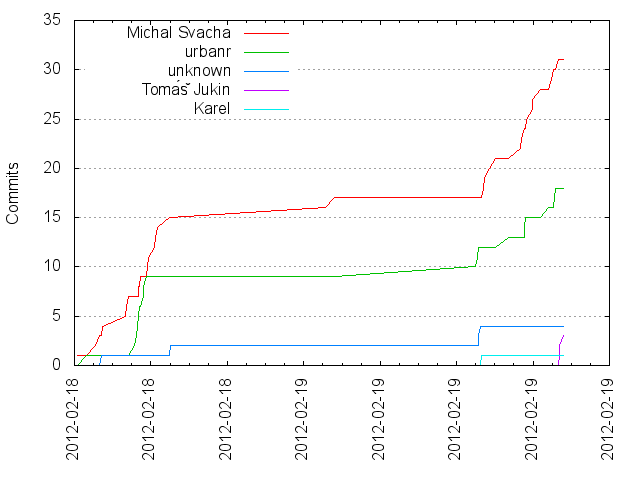
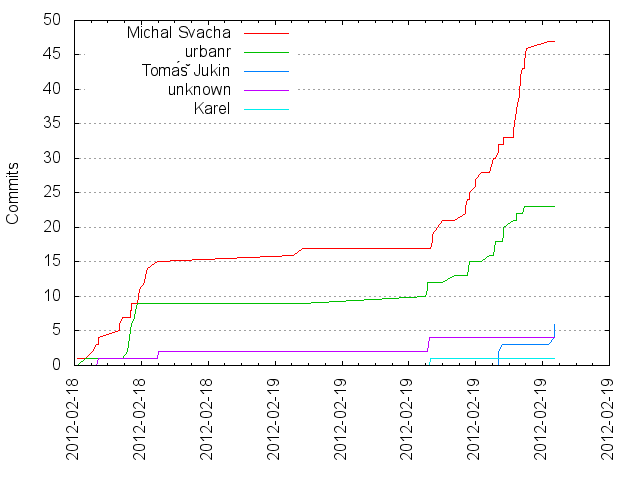
Generated git repository statistics

diff --git a/GADCPrague_stats/activity.html b/GADCPrague_stats/activity.html
@@ -4,7 +4,7 @@
 <head>
 	<title>GitStats - GeoCatching</title>
 	<link rel="stylesheet" href="gitstats.css" type="text/css" />
-	<meta name="generator" content="GitStats 562acb7" />
+	<meta name="generator" content="GitStats b0c5aa6" />
 	<script type="text/javascript" src="sortable.js"></script>
 </head>
 <body>
@@ -22,27 +22,27 @@
 
 <h2><a href="#weekly_activity" name="weekly_activity">Weekly activity</a></h2>
 
-<p>Last 32 weeks</p><table class="noborders"><tr><td style="text-align: center; vertical-align: bottom">0<div style="display: block; background-color: red; width: 20px; height: 1px"></div></td><td style="text-align: center; vertical-align: bottom">0<div style="display: block; background-color: red; width: 20px; height: 1px"></div></td><td style="text-align: center; vertical-align: bottom">0<div style="display: block; background-color: red; width: 20px; height: 1px"></div></td><td style="text-align: center; vertical-align: bottom">0<div style="display: block; background-color: red; width: 20px; height: 1px"></div></td><td style="text-align: center; vertical-align: bottom">0<div style="display: block; background-color: red; width: 20px; height: 1px"></div></td><td style="text-align: center; vertical-align: bottom">0<div style="display: block; background-color: red; width: 20px; height: 1px"></div></td><td style="text-align: center; vertical-align: bottom">0<div style="display: block; background-color: red; width: 20px; height: 1px"></div></td><td style="text-align: center; vertical-align: bottom">0<div style="display: block; background-color: red; width: 20px; height: 1px"></div></td><td style="text-align: center; vertical-align: bottom">0<div style="display: block; background-color: red; width: 20px; height: 1px"></div></td><td style="text-align: center; vertical-align: bottom">0<div style="display: block; background-color: red; width: 20px; height: 1px"></div></td><td style="text-align: center; vertical-align: bottom">0<div style="display: block; background-color: red; width: 20px; height: 1px"></div></td><td style="text-align: center; vertical-align: bottom">0<div style="display: block; background-color: red; width: 20px; height: 1px"></div></td><td style="text-align: center; vertical-align: bottom">0<div style="display: block; background-color: red; width: 20px; height: 1px"></div></td><td style="text-align: center; vertical-align: bottom">0<div style="display: block; background-color: red; width: 20px; height: 1px"></div></td><td style="text-align: center; vertical-align: bottom">0<div style="display: block; background-color: red; width: 20px; height: 1px"></div></td><td style="text-align: center; vertical-align: bottom">0<div style="display: block; background-color: red; width: 20px; height: 1px"></div></td><td style="text-align: center; vertical-align: bottom">0<div style="display: block; background-color: red; width: 20px; height: 1px"></div></td><td style="text-align: center; vertical-align: bottom">0<div style="display: block; background-color: red; width: 20px; height: 1px"></div></td><td style="text-align: center; vertical-align: bottom">0<div style="display: block; background-color: red; width: 20px; height: 1px"></div></td><td style="text-align: center; vertical-align: bottom">0<div style="display: block; background-color: red; width: 20px; height: 1px"></div></td><td style="text-align: center; vertical-align: bottom">0<div style="display: block; background-color: red; width: 20px; height: 1px"></div></td><td style="text-align: center; vertical-align: bottom">0<div style="display: block; background-color: red; width: 20px; height: 1px"></div></td><td style="text-align: center; vertical-align: bottom">0<div style="display: block; background-color: red; width: 20px; height: 1px"></div></td><td style="text-align: center; vertical-align: bottom">0<div style="display: block; background-color: red; width: 20px; height: 1px"></div></td><td style="text-align: center; vertical-align: bottom">0<div style="display: block; background-color: red; width: 20px; height: 1px"></div></td><td style="text-align: center; vertical-align: bottom">0<div style="display: block; background-color: red; width: 20px; height: 1px"></div></td><td style="text-align: center; vertical-align: bottom">0<div style="display: block; background-color: red; width: 20px; height: 1px"></div></td><td style="text-align: center; vertical-align: bottom">0<div style="display: block; background-color: red; width: 20px; height: 1px"></div></td><td style="text-align: center; vertical-align: bottom">0<div style="display: block; background-color: red; width: 20px; height: 1px"></div></td><td style="text-align: center; vertical-align: bottom">0<div style="display: block; background-color: red; width: 20px; height: 1px"></div></td><td style="text-align: center; vertical-align: bottom">0<div style="display: block; background-color: red; width: 20px; height: 1px"></div></td><td style="text-align: center; vertical-align: bottom">57<div style="display: block; background-color: red; width: 20px; height: 200px"></div></td></tr><tr><td>32</td><td>31</td><td>30</td><td>29</td><td>28</td><td>27</td><td>26</td><td>25</td><td>24</td><td>23</td><td>22</td><td>21</td><td>20</td><td>19</td><td>18</td><td>17</td><td>16</td><td>15</td><td>14</td><td>13</td><td>12</td><td>11</td><td>10</td><td>9</td><td>8</td><td>7</td><td>6</td><td>5</td><td>4</td><td>3</td><td>2</td><td>1</td></tr></table>
+<p>Last 32 weeks</p><table class="noborders"><tr><td style="text-align: center; vertical-align: bottom">0<div style="display: block; background-color: red; width: 20px; height: 1px"></div></td><td style="text-align: center; vertical-align: bottom">0<div style="display: block; background-color: red; width: 20px; height: 1px"></div></td><td style="text-align: center; vertical-align: bottom">0<div style="display: block; background-color: red; width: 20px; height: 1px"></div></td><td style="text-align: center; vertical-align: bottom">0<div style="display: block; background-color: red; width: 20px; height: 1px"></div></td><td style="text-align: center; vertical-align: bottom">0<div style="display: block; background-color: red; width: 20px; height: 1px"></div></td><td style="text-align: center; vertical-align: bottom">0<div style="display: block; background-color: red; width: 20px; height: 1px"></div></td><td style="text-align: center; vertical-align: bottom">0<div style="display: block; background-color: red; width: 20px; height: 1px"></div></td><td style="text-align: center; vertical-align: bottom">0<div style="display: block; background-color: red; width: 20px; height: 1px"></div></td><td style="text-align: center; vertical-align: bottom">0<div style="display: block; background-color: red; width: 20px; height: 1px"></div></td><td style="text-align: center; vertical-align: bottom">0<div style="display: block; background-color: red; width: 20px; height: 1px"></div></td><td style="text-align: center; vertical-align: bottom">0<div style="display: block; background-color: red; width: 20px; height: 1px"></div></td><td style="text-align: center; vertical-align: bottom">0<div style="display: block; background-color: red; width: 20px; height: 1px"></div></td><td style="text-align: center; vertical-align: bottom">0<div style="display: block; background-color: red; width: 20px; height: 1px"></div></td><td style="text-align: center; vertical-align: bottom">0<div style="display: block; background-color: red; width: 20px; height: 1px"></div></td><td style="text-align: center; vertical-align: bottom">0<div style="display: block; background-color: red; width: 20px; height: 1px"></div></td><td style="text-align: center; vertical-align: bottom">0<div style="display: block; background-color: red; width: 20px; height: 1px"></div></td><td style="text-align: center; vertical-align: bottom">0<div style="display: block; background-color: red; width: 20px; height: 1px"></div></td><td style="text-align: center; vertical-align: bottom">0<div style="display: block; background-color: red; width: 20px; height: 1px"></div></td><td style="text-align: center; vertical-align: bottom">0<div style="display: block; background-color: red; width: 20px; height: 1px"></div></td><td style="text-align: center; vertical-align: bottom">0<div style="display: block; background-color: red; width: 20px; height: 1px"></div></td><td style="text-align: center; vertical-align: bottom">0<div style="display: block; background-color: red; width: 20px; height: 1px"></div></td><td style="text-align: center; vertical-align: bottom">0<div style="display: block; background-color: red; width: 20px; height: 1px"></div></td><td style="text-align: center; vertical-align: bottom">0<div style="display: block; background-color: red; width: 20px; height: 1px"></div></td><td style="text-align: center; vertical-align: bottom">0<div style="display: block; background-color: red; width: 20px; height: 1px"></div></td><td style="text-align: center; vertical-align: bottom">0<div style="display: block; background-color: red; width: 20px; height: 1px"></div></td><td style="text-align: center; vertical-align: bottom">0<div style="display: block; background-color: red; width: 20px; height: 1px"></div></td><td style="text-align: center; vertical-align: bottom">0<div style="display: block; background-color: red; width: 20px; height: 1px"></div></td><td style="text-align: center; vertical-align: bottom">0<div style="display: block; background-color: red; width: 20px; height: 1px"></div></td><td style="text-align: center; vertical-align: bottom">0<div style="display: block; background-color: red; width: 20px; height: 1px"></div></td><td style="text-align: center; vertical-align: bottom">0<div style="display: block; background-color: red; width: 20px; height: 1px"></div></td><td style="text-align: center; vertical-align: bottom">0<div style="display: block; background-color: red; width: 20px; height: 1px"></div></td><td style="text-align: center; vertical-align: bottom">81<div style="display: block; background-color: red; width: 20px; height: 200px"></div></td></tr><tr><td>32</td><td>31</td><td>30</td><td>29</td><td>28</td><td>27</td><td>26</td><td>25</td><td>24</td><td>23</td><td>22</td><td>21</td><td>20</td><td>19</td><td>18</td><td>17</td><td>16</td><td>15</td><td>14</td><td>13</td><td>12</td><td>11</td><td>10</td><td>9</td><td>8</td><td>7</td><td>6</td><td>5</td><td>4</td><td>3</td><td>2</td><td>1</td></tr></table>
 <h2><a href="#hour_of_day" name="hour_of_day">Hour of Day</a></h2>
 
 <table><tr><th>Hour</th><th>0</th><th>1</th><th>2</th><th>3</th><th>4</th><th>5</th><th>6</th><th>7</th><th>8</th><th>9</th><th>10</th><th>11</th><th>12</th><th>13</th><th>14</th><th>15</th><th>16</th><th>17</th><th>18</th><th>19</th><th>20</th><th>21</th><th>22</th><th>23</th></tr>
-<tr><th>Commits</th><td>0</td><td>0</td><td style="background-color: rgb(148, 0, 0)">2</td><td>0</td><td>0</td><td>0</td><td>0</td><td>0</td><td>0</td><td style="background-color: rgb(137, 0, 0)">1</td><td style="background-color: rgb(212, 0, 0)">8</td><td style="background-color: rgb(148, 0, 0)">2</td><td style="background-color: rgb(212, 0, 0)">8</td><td style="background-color: rgb(180, 0, 0)">5</td><td style="background-color: rgb(244, 0, 0)">11</td><td style="background-color: rgb(159, 0, 0)">3</td><td style="background-color: rgb(255, 0, 0)">12</td><td style="background-color: rgb(169, 0, 0)">4</td><td style="background-color: rgb(137, 0, 0)">1</td><td>0</td><td>0</td><td>0</td><td>0</td><td>0</td></tr>
-<tr><th>%</th><td>0.00</td><td>0.00</td><td style="background-color: rgb(148, 0, 0)">3.51</td><td>0.00</td><td>0.00</td><td>0.00</td><td>0.00</td><td>0.00</td><td>0.00</td><td style="background-color: rgb(137, 0, 0)">1.75</td><td style="background-color: rgb(212, 0, 0)">14.04</td><td style="background-color: rgb(148, 0, 0)">3.51</td><td style="background-color: rgb(212, 0, 0)">14.04</td><td style="background-color: rgb(180, 0, 0)">8.77</td><td style="background-color: rgb(244, 0, 0)">19.30</td><td style="background-color: rgb(159, 0, 0)">5.26</td><td style="background-color: rgb(255, 0, 0)">21.05</td><td style="background-color: rgb(169, 0, 0)">7.02</td><td style="background-color: rgb(137, 0, 0)">1.75</td><td>0.00</td><td>0.00</td><td>0.00</td><td>0.00</td><td>0.00</td></tr></table><img src="hour_of_day.png" alt="Hour of Day" />
+<tr><th>Commits</th><td>0</td><td>0</td><td style="background-color: rgb(141, 0, 0)">2</td><td>0</td><td>0</td><td>0</td><td>0</td><td>0</td><td>0</td><td style="background-color: rgb(134, 0, 0)">1</td><td style="background-color: rgb(183, 0, 0)">8</td><td style="background-color: rgb(141, 0, 0)">2</td><td style="background-color: rgb(183, 0, 0)">8</td><td style="background-color: rgb(162, 0, 0)">5</td><td style="background-color: rgb(233, 0, 0)">15</td><td style="background-color: rgb(255, 0, 0)">18</td><td style="background-color: rgb(219, 0, 0)">13</td><td style="background-color: rgb(183, 0, 0)">8</td><td style="background-color: rgb(134, 0, 0)">1</td><td>0</td><td>0</td><td>0</td><td>0</td><td>0</td></tr>
+<tr><th>%</th><td>0.00</td><td>0.00</td><td style="background-color: rgb(141, 0, 0)">2.47</td><td>0.00</td><td>0.00</td><td>0.00</td><td>0.00</td><td>0.00</td><td>0.00</td><td style="background-color: rgb(134, 0, 0)">1.23</td><td style="background-color: rgb(183, 0, 0)">9.88</td><td style="background-color: rgb(141, 0, 0)">2.47</td><td style="background-color: rgb(183, 0, 0)">9.88</td><td style="background-color: rgb(162, 0, 0)">6.17</td><td style="background-color: rgb(233, 0, 0)">18.52</td><td style="background-color: rgb(255, 0, 0)">22.22</td><td style="background-color: rgb(219, 0, 0)">16.05</td><td style="background-color: rgb(183, 0, 0)">9.88</td><td style="background-color: rgb(134, 0, 0)">1.23</td><td>0.00</td><td>0.00</td><td>0.00</td><td>0.00</td><td>0.00</td></tr></table><img src="hour_of_day.png" alt="Hour of Day" />
 <h2><a href="#day_of_week" name="day_of_week">Day of Week</a></h2>
 
-<div class="vtable"><table><tr><th>Day</th><th>Total (%)</th></tr><tr><th>Mon</th><td>0</td></tr><tr><th>Tue</th><td>0</td></tr><tr><th>Wed</th><td>0</td></tr><tr><th>Thu</th><td>0</td></tr><tr><th>Fri</th><td>0</td></tr><tr><th>Sat</th><td>26 (45.61%)</td></tr><tr><th>Sun</th><td>31 (54.39%)</td></tr></table></div><img src="day_of_week.png" alt="Day of Week" />
+<div class="vtable"><table><tr><th>Day</th><th>Total (%)</th></tr><tr><th>Mon</th><td>0</td></tr><tr><th>Tue</th><td>0</td></tr><tr><th>Wed</th><td>0</td></tr><tr><th>Thu</th><td>0</td></tr><tr><th>Fri</th><td>0</td></tr><tr><th>Sat</th><td>26 (32.10%)</td></tr><tr><th>Sun</th><td>55 (67.90%)</td></tr></table></div><img src="day_of_week.png" alt="Day of Week" />
 <h2><a href="#hour_of_week" name="hour_of_week">Hour of Week</a></h2>
 
-<table><tr><th>Weekday</th><th>0</th><th>1</th><th>2</th><th>3</th><th>4</th><th>5</th><th>6</th><th>7</th><th>8</th><th>9</th><th>10</th><th>11</th><th>12</th><th>13</th><th>14</th><th>15</th><th>16</th><th>17</th><th>18</th><th>19</th><th>20</th><th>21</th><th>22</th><th>23</th></tr><tr><th>Mon</th><td></td><td></td><td></td><td></td><td></td><td></td><td></td><td></td><td></td><td></td><td></td><td></td><td></td><td></td><td></td><td></td><td></td><td></td><td></td><td></td><td></td><td></td><td></td><td></td></tr><tr><th>Tue</th><td></td><td></td><td></td><td></td><td></td><td></td><td></td><td></td><td></td><td></td><td></td><td></td><td></td><td></td><td></td><td></td><td></td><td></td><td></td><td></td><td></td><td></td><td></td><td></td></tr><tr><th>Wed</th><td></td><td></td><td></td><td></td><td></td><td></td><td></td><td></td><td></td><td></td><td></td><td></td><td></td><td></td><td></td><td></td><td></td><td></td><td></td><td></td><td></td><td></td><td></td><td></td></tr><tr><th>Thu</th><td></td><td></td><td></td><td></td><td></td><td></td><td></td><td></td><td></td><td></td><td></td><td></td><td></td><td></td><td></td><td></td><td></td><td></td><td></td><td></td><td></td><td></td><td></td><td></td></tr><tr><th>Fri</th><td></td><td></td><td></td><td></td><td></td><td></td><td></td><td></td><td></td><td></td><td></td><td></td><td></td><td></td><td></td><td></td><td></td><td></td><td></td><td></td><td></td><td></td><td></td><td></td></tr><tr><th>Sat</th><td></td><td></td><td></td><td></td><td></td><td></td><td></td><td></td><td></td><td></td><td></td><td></td><td></td><td style="background-color: rgb(148, 0, 0)">2</td><td style="background-color: rgb(169, 0, 0)">4</td><td style="background-color: rgb(159, 0, 0)">3</td><td style="background-color: rgb(255, 0, 0)">12</td><td style="background-color: rgb(169, 0, 0)">4</td><td style="background-color: rgb(137, 0, 0)">1</td><td></td><td></td><td></td><td></td><td></td></tr><tr><th>Sun</th><td></td><td></td><td style="background-color: rgb(148, 0, 0)">2</td><td></td><td></td><td></td><td></td><td></td><td></td><td style="background-color: rgb(137, 0, 0)">1</td><td style="background-color: rgb(212, 0, 0)">8</td><td style="background-color: rgb(148, 0, 0)">2</td><td style="background-color: rgb(212, 0, 0)">8</td><td style="background-color: rgb(159, 0, 0)">3</td><td style="background-color: rgb(201, 0, 0)">7</td><td></td><td></td><td></td><td></td><td></td><td></td><td></td><td></td><td></td></tr></table>
+<table><tr><th>Weekday</th><th>0</th><th>1</th><th>2</th><th>3</th><th>4</th><th>5</th><th>6</th><th>7</th><th>8</th><th>9</th><th>10</th><th>11</th><th>12</th><th>13</th><th>14</th><th>15</th><th>16</th><th>17</th><th>18</th><th>19</th><th>20</th><th>21</th><th>22</th><th>23</th></tr><tr><th>Mon</th><td></td><td></td><td></td><td></td><td></td><td></td><td></td><td></td><td></td><td></td><td></td><td></td><td></td><td></td><td></td><td></td><td></td><td></td><td></td><td></td><td></td><td></td><td></td><td></td></tr><tr><th>Tue</th><td></td><td></td><td></td><td></td><td></td><td></td><td></td><td></td><td></td><td></td><td></td><td></td><td></td><td></td><td></td><td></td><td></td><td></td><td></td><td></td><td></td><td></td><td></td><td></td></tr><tr><th>Wed</th><td></td><td></td><td></td><td></td><td></td><td></td><td></td><td></td><td></td><td></td><td></td><td></td><td></td><td></td><td></td><td></td><td></td><td></td><td></td><td></td><td></td><td></td><td></td><td></td></tr><tr><th>Thu</th><td></td><td></td><td></td><td></td><td></td><td></td><td></td><td></td><td></td><td></td><td></td><td></td><td></td><td></td><td></td><td></td><td></td><td></td><td></td><td></td><td></td><td></td><td></td><td></td></tr><tr><th>Fri</th><td></td><td></td><td></td><td></td><td></td><td></td><td></td><td></td><td></td><td></td><td></td><td></td><td></td><td></td><td></td><td></td><td></td><td></td><td></td><td></td><td></td><td></td><td></td><td></td></tr><tr><th>Sat</th><td></td><td></td><td></td><td></td><td></td><td></td><td></td><td></td><td></td><td></td><td></td><td></td><td></td><td style="background-color: rgb(144, 0, 0)">2</td><td style="background-color: rgb(161, 0, 0)">4</td><td style="background-color: rgb(152, 0, 0)">3</td><td style="background-color: rgb(229, 0, 0)">12</td><td style="background-color: rgb(161, 0, 0)">4</td><td style="background-color: rgb(135, 0, 0)">1</td><td></td><td></td><td></td><td></td><td></td></tr><tr><th>Sun</th><td></td><td></td><td style="background-color: rgb(144, 0, 0)">2</td><td></td><td></td><td></td><td></td><td></td><td></td><td style="background-color: rgb(135, 0, 0)">1</td><td style="background-color: rgb(195, 0, 0)">8</td><td style="background-color: rgb(144, 0, 0)">2</td><td style="background-color: rgb(195, 0, 0)">8</td><td style="background-color: rgb(152, 0, 0)">3</td><td style="background-color: rgb(220, 0, 0)">11</td><td style="background-color: rgb(255, 0, 0)">15</td><td style="background-color: rgb(135, 0, 0)">1</td><td style="background-color: rgb(161, 0, 0)">4</td><td></td><td></td><td></td><td></td><td></td><td></td></tr></table>
 <h2><a href="#month_of_year" name="month_of_year">Month of Year</a></h2>
 
-<div class="vtable"><table><tr><th>Month</th><th>Commits (%)</th></tr><tr><td>1</td><td>0 (0.00 %)</td></tr><tr><td>2</td><td>57 (100.00 %)</td></tr><tr><td>3</td><td>0 (0.00 %)</td></tr><tr><td>4</td><td>0 (0.00 %)</td></tr><tr><td>5</td><td>0 (0.00 %)</td></tr><tr><td>6</td><td>0 (0.00 %)</td></tr><tr><td>7</td><td>0 (0.00 %)</td></tr><tr><td>8</td><td>0 (0.00 %)</td></tr><tr><td>9</td><td>0 (0.00 %)</td></tr><tr><td>10</td><td>0 (0.00 %)</td></tr><tr><td>11</td><td>0 (0.00 %)</td></tr><tr><td>12</td><td>0 (0.00 %)</td></tr></table></div><img src="month_of_year.png" alt="Month of Year" />
+<div class="vtable"><table><tr><th>Month</th><th>Commits (%)</th></tr><tr><td>1</td><td>0 (0.00 %)</td></tr><tr><td>2</td><td>81 (100.00 %)</td></tr><tr><td>3</td><td>0 (0.00 %)</td></tr><tr><td>4</td><td>0 (0.00 %)</td></tr><tr><td>5</td><td>0 (0.00 %)</td></tr><tr><td>6</td><td>0 (0.00 %)</td></tr><tr><td>7</td><td>0 (0.00 %)</td></tr><tr><td>8</td><td>0 (0.00 %)</td></tr><tr><td>9</td><td>0 (0.00 %)</td></tr><tr><td>10</td><td>0 (0.00 %)</td></tr><tr><td>11</td><td>0 (0.00 %)</td></tr><tr><td>12</td><td>0 (0.00 %)</td></tr></table></div><img src="month_of_year.png" alt="Month of Year" />
 <h2><a href="#commits_by_year/month" name="commits_by_year/month">Commits by year/month</a></h2>
 
-<div class="vtable"><table><tr><th>Month</th><th>Commits</th><th>Lines added</th><th>Lines removed</th></tr><tr><td>2012-02</td><td>57</td><td>2986</td><td>444</td></tr></table></div><img src="commits_by_year_month.png" alt="Commits by year/month" />
+<div class="vtable"><table><tr><th>Month</th><th>Commits</th><th>Lines added</th><th>Lines removed</th></tr><tr><td>2012-02</td><td>81</td><td>3570</td><td>796</td></tr></table></div><img src="commits_by_year_month.png" alt="Commits by year/month" />
 <h2><a href="#commits_by_year" name="commits_by_year">Commits by Year</a></h2>
 
-<div class="vtable"><table><tr><th>Year</th><th>Commits (% of all)</th><th>Lines added</th><th>Lines removed</th></tr><tr><td>2012</td><td>57 (100.00%)</td><td>2986</td><td>444</td></tr></table></div><img src="commits_by_year.png" alt="Commits by Year" />
+<div class="vtable"><table><tr><th>Year</th><th>Commits (% of all)</th><th>Lines added</th><th>Lines removed</th></tr><tr><td>2012</td><td>81 (100.00%)</td><td>3570</td><td>796</td></tr></table></div><img src="commits_by_year.png" alt="Commits by Year" />
 <h2><a href="#commits_by_timezone" name="commits_by_timezone">Commits by Timezone</a></h2>
 
-<table><tr><th>Timezone</th><th>Commits</th><tr><th>+0100</th><td style="background-color: rgb(255, 0, 0)">57</td></tr></tr></table></body></html>
+<table><tr><th>Timezone</th><th>Commits</th><tr><th>+0100</th><td style="background-color: rgb(255, 0, 0)">81</td></tr></tr></table></body></html>

diff --git a/GADCPrague_stats/authors.html b/GADCPrague_stats/authors.html
@@ -4,7 +4,7 @@
 <head>
 	<title>GitStats - GeoCatching</title>
 	<link rel="stylesheet" href="gitstats.css" type="text/css" />
-	<meta name="generator" content="GitStats 562acb7" />
+	<meta name="generator" content="GitStats b0c5aa6" />
 	<script type="text/javascript" src="sortable.js"></script>
 </head>
 <body>
@@ -22,7 +22,7 @@
 
 <h2><a href="#list_of_authors" name="list_of_authors">List of Authors</a></h2>
 
-<table class="authors sortable" id="authors"><tr><th>Author</th><th>Commits (%)</th><th>+ lines</th><th>- lines</th><th>First commit</th><th>Last commit</th><th class="unsortable">Age</th><th>Active days</th><th># by commits</th></tr><tr><td>Michal Svacha</td><td>31 (54.39%)</td><td>1812</td><td>602</td><td>2012-02-18</td><td>2012-02-19</td><td>1 day, 1:10:48</td><td>2</td><td>1</td></tr><tr><td>urbanr</td><td>18 (31.58%)</td><td>876</td><td>426</td><td>2012-02-18</td><td>2012-02-19</td><td>1 day, 0:31:49</td><td>2</td><td>2</td></tr><tr><td>unknown</td><td>4 (7.02%)</td><td>12</td><td>0</td><td>2012-02-18</td><td>2012-02-19</td><td>19:50:07</td><td>2</td><td>3</td></tr><tr><td>Tomáš Jukin</td><td>3 (5.26%)</td><td>913</td><td>0</td><td>2012-02-19</td><td>2012-02-19</td><td>0:13:20</td><td>1</td><td>4</td></tr><tr><td>Karel</td><td>1 (1.75%)</td><td>0</td><td>0</td><td>2012-02-19</td><td>2012-02-19</td><td>0:00:00</td><td>1</td><td>5</td></tr></table>
+<table class="authors sortable" id="authors"><tr><th>Author</th><th>Commits (%)</th><th>+ lines</th><th>- lines</th><th>First commit</th><th>Last commit</th><th class="unsortable">Age</th><th>Active days</th><th># by commits</th></tr><tr><td>Michal Svacha</td><td>47 (58.02%)</td><td>2076</td><td>911</td><td>2012-02-18</td><td>2012-02-19</td><td>1 day, 4:09:58</td><td>2</td><td>1</td></tr><tr><td>urbanr</td><td>23 (28.40%)</td><td>1200</td><td>543</td><td>2012-02-18</td><td>2012-02-19</td><td>1 day, 2:17:18</td><td>2</td><td>2</td></tr><tr><td>Tomáš Jukin</td><td>6 (7.41%)</td><td>1083</td><td>91</td><td>2012-02-19</td><td>2012-02-19</td><td>3:20:44</td><td>1</td><td>3</td></tr><tr><td>unknown</td><td>4 (4.94%)</td><td>12</td><td>0</td><td>2012-02-18</td><td>2012-02-19</td><td>19:50:07</td><td>2</td><td>4</td></tr><tr><td>Karel</td><td>1 (1.23%)</td><td>0</td><td>0</td><td>2012-02-19</td><td>2012-02-19</td><td>0:00:00</td><td>1</td><td>5</td></tr></table>
 <h2><a href="#cumulated_added_lines_of_code_per_author" name="cumulated_added_lines_of_code_per_author">Cumulated Added Lines of Code per Author</a></h2>
 
 <img src="lines_of_code_by_author.png" alt="Lines of code per Author" />
@@ -31,10 +31,10 @@
 <img src="commits_by_author.png" alt="Commits per Author" />
 <h2><a href="#author_of_month" name="author_of_month">Author of Month</a></h2>
 
-<table class="sortable" id="aom"><tr><th>Month</th><th>Author</th><th>Commits (%)</th><th class="unsortable">Next top 5</th><th>Number of authors</th></tr><tr><td>2012-02</td><td>Michal Svacha</td><td>31 (54.39% of 57)</td><td>urbanr, unknown, Tomáš Jukin, Karel</td><td>5</td></tr></table>
+<table class="sortable" id="aom"><tr><th>Month</th><th>Author</th><th>Commits (%)</th><th class="unsortable">Next top 5</th><th>Number of authors</th></tr><tr><td>2012-02</td><td>Michal Svacha</td><td>47 (58.02% of 81)</td><td>urbanr, Tomáš Jukin, unknown, Karel</td><td>5</td></tr></table>
 <h2><a href="#author_of_year" name="author_of_year">Author of Year</a></h2>
 
-<table class="sortable" id="aoy"><tr><th>Year</th><th>Author</th><th>Commits (%)</th><th class="unsortable">Next top 5</th><th>Number of authors</th></tr><tr><td>2012</td><td>Michal Svacha</td><td>31 (54.39% of 57)</td><td>urbanr, unknown, Tomáš Jukin, Karel</td><td>5</td></tr></table>
+<table class="sortable" id="aoy"><tr><th>Year</th><th>Author</th><th>Commits (%)</th><th class="unsortable">Next top 5</th><th>Number of authors</th></tr><tr><td>2012</td><td>Michal Svacha</td><td>47 (58.02% of 81)</td><td>urbanr, Tomáš Jukin, unknown, Karel</td><td>5</td></tr></table>
 <h2><a href="#commits_by_domains" name="commits_by_domains">Commits by Domains</a></h2>
 
-<div class="vtable"><table><tr><th>Domains</th><th>Total (%)</th></tr><tr><th>msn.com</th><td>31 (54.39%)</td></tr><tr><th>gmail.com</th><td>18 (31.58%)</td></tr><tr><th>Dentack-VAIO.(none)</th><td>4 (7.02%)</td></tr><tr><th>jukin.cz</th><td>3 (5.26%)</td></tr><tr><th>dentack.cz</th><td>1 (1.75%)</td></tr></table></div><img src="domains.png" alt="Commits by Domains" /></body></html>
+<div class="vtable"><table><tr><th>Domains</th><th>Total (%)</th></tr><tr><th>msn.com</th><td>47 (58.02%)</td></tr><tr><th>gmail.com</th><td>23 (28.40%)</td></tr><tr><th>jukin.cz</th><td>6 (7.41%)</td></tr><tr><th>Dentack-VAIO.(none)</th><td>4 (4.94%)</td></tr><tr><th>dentack.cz</th><td>1 (1.23%)</td></tr></table></div><img src="domains.png" alt="Commits by Domains" /></body></html>

diff --git a/GADCPrague_stats/files.html b/GADCPrague_stats/files.html
@@ -4,7 +4,7 @@
 <head>
 	<title>GitStats - GeoCatching</title>
 	<link rel="stylesheet" href="gitstats.css" type="text/css" />
-	<meta name="generator" content="GitStats 562acb7" />
+	<meta name="generator" content="GitStats b0c5aa6" />
 	<script type="text/javascript" src="sortable.js"></script>
 </head>
 <body>
@@ -20,11 +20,11 @@
 </ul>
 </div>
 <dl>
-<dt>Total files</dt><dd>119</dd><dt>Total lines</dt><dd>2542</dd><dt>Average file size</dt><dd>16200.92 bytes</dd></dl>
+<dt>Total files</dt><dd>127</dd><dt>Total lines</dt><dd>2774</dd><dt>Average file size</dt><dd>5629.45 bytes</dd></dl>
 
 <h2><a href="#file_count_by_date" name="file_count_by_date">File count by date</a></h2>
 
 <img src="files_by_date.png" alt="Files by Date" />
 <h2><a href="#extensions" name="extensions">Extensions</a></h2>
 
-<table class="sortable" id="ext"><tr><th>Extension</th><th>Files (%)</th><th>Lines (%)</th><th>Lines/file</th></tr><tr><td></td><td>3 (2.52%)</td><td>42 (1.65%)</td><td>14</td></tr><tr><td>cache</td><td>1 (0.84%)</td><td>5 (0.20%)</td><td>5</td></tr><tr><td>cfg</td><td>1 (0.84%)</td><td>40 (1.57%)</td><td>40</td></tr><tr><td>css</td><td>1 (0.84%)</td><td>145 (5.70%)</td><td>145</td></tr><tr><td>dat</td><td>10 (8.40%)</td><td>136 (5.35%)</td><td>13</td></tr><tr><td>gif</td><td>3 (2.52%)</td><td>6 (0.24%)</td><td>2</td></tr><tr><td>html</td><td>6 (5.04%)</td><td>184 (7.24%)</td><td>30</td></tr><tr><td>jar</td><td>1 (0.84%)</td><td>934 (36.74%)</td><td>934</td></tr><tr><td>java</td><td>8 (6.72%)</td><td>868 (34.15%)</td><td>108</td></tr><tr><td>js</td><td>1 (0.84%)</td><td>324 (12.75%)</td><td>324</td></tr><tr><td>mp4</td><td>1 (0.84%)</td><td>4953 (194.85%)</td><td>4953</td></tr><tr><td>plot</td><td>10 (8.40%)</td><td>118 (4.64%)</td><td>11</td></tr><tr><td>png</td><td>54 (45.38%)</td><td>1677 (65.97%)</td><td>31</td></tr><tr><td>prefs</td><td>1 (0.84%)</td><td>12 (0.47%)</td><td>12</td></tr><tr><td>properties</td><td>1 (0.84%)</td><td>11 (0.43%)</td><td>11</td></tr><tr><td>xml</td><td>17 (14.29%)</td><td>638 (25.10%)</td><td>37</td></tr></table></body></html>
+<table class="sortable" id="ext"><tr><th>Extension</th><th>Files (%)</th><th>Lines (%)</th><th>Lines/file</th></tr><tr><td></td><td>3 (2.36%)</td><td>44 (1.59%)</td><td>14</td></tr><tr><td>cache</td><td>1 (0.79%)</td><td>18 (0.65%)</td><td>18</td></tr><tr><td>cfg</td><td>1 (0.79%)</td><td>40 (1.44%)</td><td>40</td></tr><tr><td>css</td><td>1 (0.79%)</td><td>145 (5.23%)</td><td>145</td></tr><tr><td>dat</td><td>10 (7.87%)</td><td>215 (7.75%)</td><td>21</td></tr><tr><td>gif</td><td>3 (2.36%)</td><td>6 (0.22%)</td><td>2</td></tr><tr><td>html</td><td>6 (4.72%)</td><td>184 (6.63%)</td><td>30</td></tr><tr><td>jar</td><td>1 (0.79%)</td><td>934 (33.67%)</td><td>934</td></tr><tr><td>java</td><td>9 (7.09%)</td><td>843 (30.39%)</td><td>93</td></tr><tr><td>js</td><td>1 (0.79%)</td><td>324 (11.68%)</td><td>324</td></tr><tr><td>mp4</td><td>1 (0.79%)</td><td>0 (0.00%)</td><td>0</td></tr><tr><td>plot</td><td>10 (7.87%)</td><td>118 (4.25%)</td><td>11</td></tr><tr><td>png</td><td>58 (45.67%)</td><td>1800 (64.89%)</td><td>31</td></tr><tr><td>prefs</td><td>1 (0.79%)</td><td>12 (0.43%)</td><td>12</td></tr><tr><td>properties</td><td>1 (0.79%)</td><td>11 (0.40%)</td><td>11</td></tr><tr><td>xml</td><td>20 (15.75%)</td><td>812 (29.27%)</td><td>40</td></tr></table></body></html>

diff --git a/GADCPrague_stats/index.html b/GADCPrague_stats/index.html
@@ -4,7 +4,7 @@
 <head>
 	<title>GitStats - GeoCatching</title>
 	<link rel="stylesheet" href="gitstats.css" type="text/css" />
-	<meta name="generator" content="GitStats 562acb7" />
+	<meta name="generator" content="GitStats b0c5aa6" />
 	<script type="text/javascript" src="sortable.js"></script>
 </head>
 <body>
@@ -19,5 +19,5 @@
 <li><a href="tags.html">Tags</a></li>
 </ul>
 </div>
-<dl><dt>Project name</dt><dd>GeoCatching</dd><dt>Generated</dt><dd>2012-02-19 17:39:49 (in 7 seconds)</dd><dt>Generator</dt><dd><a href="http://gitstats.sourceforge.net/">GitStats</a> (version 562acb7), git version 1.7.1.1, gnuplot 4.4 patchlevel 4</dd><dt>Report Period</dt><dd>2012-02-18 13:10:01 to 2012-02-19 14:35:29</dd><dt>Age</dt><dd>2 days, 2 active days (100.00%)</dd><dt>Total Files</dt><dd>119</dd><dt>Total Lines of Code</dt><dd>2542 (2986 added, 444 removed)</dd><dt>Total Commits</dt><dd>57 (average 28.5 commits per active day, 28.5 per all days)</dd><dt>Authors</dt><dd>5 (average 11.4 commits per author)</dd></dl></body>
+<dl><dt>Project name</dt><dd>GeoCatching</dd><dt>Generated</dt><dd>2012-02-19 17:47:53 (in 9 seconds)</dd><dt>Generator</dt><dd><a href="http://gitstats.sourceforge.net/">GitStats</a> (version b0c5aa6), git version 1.7.1.1, gnuplot 4.4 patchlevel 4</dd><dt>Report Period</dt><dd>2012-02-18 13:10:01 to 2012-02-19 17:42:53</dd><dt>Age</dt><dd>2 days, 2 active days (100.00%)</dd><dt>Total Files</dt><dd>127</dd><dt>Total Lines of Code</dt><dd>2774 (3570 added, 796 removed)</dd><dt>Total Commits</dt><dd>81 (average 40.5 commits per active day, 40.5 per all days)</dd><dt>Authors</dt><dd>5 (average 16.2 commits per author)</dd></dl></body>
 </html>

diff --git a/GADCPrague_stats/lines.html b/GADCPrague_stats/lines.html
@@ -4,7 +4,7 @@
 <head>
 	<title>GitStats - GeoCatching</title>
 	<link rel="stylesheet" href="gitstats.css" type="text/css" />
-	<meta name="generator" content="GitStats 562acb7" />
+	<meta name="generator" content="GitStats b0c5aa6" />
 	<script type="text/javascript" src="sortable.js"></script>
 </head>
 <body>
@@ -20,7 +20,7 @@
 </ul>
 </div>
 <dl>
-<dt>Total lines</dt><dd>2542</dd></dl>
+<dt>Total lines</dt><dd>2774</dd></dl>
 
 <h2><a href="#lines_of_code" name="lines_of_code">Lines of Code</a></h2>
 

diff --git a/GADCPrague_stats/tags.html b/GADCPrague_stats/tags.html
@@ -4,7 +4,7 @@
 <head>
 	<title>GitStats - GeoCatching</title>
 	<link rel="stylesheet" href="gitstats.css" type="text/css" />
-	<meta name="generator" content="GitStats 562acb7" />
+	<meta name="generator" content="GitStats b0c5aa6" />
 	<script type="text/javascript" src="sortable.js"></script>
 </head>
 <body>
